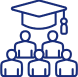
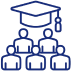
fix: admin_student
add on "register new course"

Changed region(s): [[0.0, 0.0, 1.0, 1.0], [0.7324, 0.6197, 0.7606, 0.6761], [0.7606, 0.8732, 0.7887, 0.9014]]

diff --git a/src/main/java/com/mycompany/projectmanagementsystem/admin_student.java b/src/main/java/com/mycompany/projectmanagementsystem/admin_student.java
@@ -35,6 +35,9 @@ public class admin_student extends javax.swing.JFrame {
         admin_stu_managementi = new javax.swing.JLabel();
         admin_stu_management = new javax.swing.JLabel();
         stumanage_background = new javax.swing.JLabel();
+        admin_studenti1 = new javax.swing.JLabel();
+        admin_reg_student1 = new javax.swing.JLabel();
+        regstu_background1 = new javax.swing.JLabel();
         admin_background = new javax.swing.JLabel();
 
         setDefaultCloseOperation(javax.swing.WindowConstants.EXIT_ON_CLOSE);
@@ -144,14 +147,14 @@ public class admin_student extends javax.swing.JFrame {
 
         getContentPane().add(admin_header, new org.netbeans.lib.awtextra.AbsoluteConstraints(0, 0, -1, -1));
 
-        admin_intakei.setIcon(new javax.swing.ImageIcon(getClass().getResource("/Intake_icon.png"))); // NOI18N
-        getContentPane().add(admin_intakei, new org.netbeans.lib.awtextra.AbsoluteConstraints(90, 110, -1, -1));
+        admin_intakei.setIcon(new javax.swing.ImageIcon(getClass().getResource("/intake_icon.png"))); // NOI18N
+        getContentPane().add(admin_intakei, new org.netbeans.lib.awtextra.AbsoluteConstraints(80, 110, 80, 70));
 
         admin_reg_intake.setBackground(new Color(76, 127, 174, 0));
         admin_reg_intake.setFont(new java.awt.Font("Bell MT", 1, 36)); // NOI18N
         admin_reg_intake.setForeground(new java.awt.Color(2, 50, 99));
         admin_reg_intake.setHorizontalAlignment(javax.swing.SwingConstants.CENTER);
-        admin_reg_intake.setText("Register New Intake");
+        admin_reg_intake.setText("<html><div style = \"text-align: center; width: 70px;\">Register New Intake</div></html>");
         admin_reg_intake.setBorder(new LineBorder(new Color(192, 192, 192, 90), 15, true));
         admin_reg_intake.setMaximumSize(new java.awt.Dimension(380, 240));
         admin_reg_intake.setMinimumSize(new java.awt.Dimension(380, 240));
@@ -162,21 +165,21 @@ public class admin_student extends javax.swing.JFrame {
                 admin_reg_intakeMouseClicked(evt);
             }
         });
-        getContentPane().add(admin_reg_intake, new org.netbeans.lib.awtextra.AbsoluteConstraints(80, 100, -1, -1));
+        getContentPane().add(admin_reg_intake, new org.netbeans.lib.awtextra.AbsoluteConstraints(80, 110, 260, 260));
 
         intake_background.setBackground(new Color(192, 192, 192, 90));
         intake_background.setOpaque(true);
-        getContentPane().add(intake_background, new org.netbeans.lib.awtextra.AbsoluteConstraints(90, 110, 360, 220));
+        getContentPane().add(intake_background, new org.netbeans.lib.awtextra.AbsoluteConstraints(90, 120, 240, 240));
         intake_background.getAccessibleContext().setAccessibleName("intake_background");
 
-        admin_studenti.setIcon(new javax.swing.ImageIcon(getClass().getResource("/Student_icon.png"))); // NOI18N
-        getContentPane().add(admin_studenti, new org.netbeans.lib.awtextra.AbsoluteConstraints(100, 380, -1, -1));
+        admin_studenti.setIcon(new javax.swing.ImageIcon(getClass().getResource("/student_icon.png"))); // NOI18N
+        getContentPane().add(admin_studenti, new org.netbeans.lib.awtextra.AbsoluteConstraints(380, 110, 70, 80));
 
         admin_reg_student.setBackground(new Color(192, 192, 192, 90));
         admin_reg_student.setFont(new java.awt.Font("Bell MT", 1, 36)); // NOI18N
         admin_reg_student.setForeground(new java.awt.Color(2, 50, 99));
         admin_reg_student.setHorizontalAlignment(javax.swing.SwingConstants.CENTER);
-        admin_reg_student.setText("Register New Student");
+        admin_reg_student.setText("<html><div style = \"text-align: center; width: 70px;\">Register New Student</div></html>");
         admin_reg_student.setBorder(new LineBorder(new Color(192, 192, 192, 90), 15, true));
         admin_reg_student.setMaximumSize(new java.awt.Dimension(380, 240));
         admin_reg_student.setMinimumSize(new java.awt.Dimension(380, 240));
@@ -187,14 +190,14 @@ public class admin_student extends javax.swing.JFrame {
                 admin_reg_studentMouseClicked(evt);
             }
         });
-        getContentPane().add(admin_reg_student, new org.netbeans.lib.awtextra.AbsoluteConstraints(80, 370, -1, -1));
+        getContentPane().add(admin_reg_student, new org.netbeans.lib.awtextra.AbsoluteConstraints(380, 110, 260, 260));
 
         regstu_background.setBackground(new Color(192, 192, 192, 90));
         regstu_background.setOpaque(true);
-        getContentPane().add(regstu_background, new org.netbeans.lib.awtextra.AbsoluteConstraints(90, 380, 360, 220));
+        getContentPane().add(regstu_background, new org.netbeans.lib.awtextra.AbsoluteConstraints(390, 120, 240, 240));
 
         admin_eci.setIcon(new javax.swing.ImageIcon(getClass().getResource("/EC_icon.png"))); // NOI18N
-        getContentPane().add(admin_eci, new org.netbeans.lib.awtextra.AbsoluteConstraints(560, 110, -1, -1));
+        getContentPane().add(admin_eci, new org.netbeans.lib.awtextra.AbsoluteConstraints(100, 420, -1, -1));
 
         admin_ec_management.setBackground(new Color(192, 192, 192, 90));
         admin_ec_management.setFont(new java.awt.Font("Bell MT", 1, 36)); // NOI18N
@@ -211,15 +214,15 @@ public class admin_student extends javax.swing.JFrame {
                 admin_ec_managementMouseClicked(evt);
             }
         });
-        getContentPane().add(admin_ec_management, new org.netbeans.lib.awtextra.AbsoluteConstraints(540, 100, -1, -1));
+        getContentPane().add(admin_ec_management, new org.netbeans.lib.awtextra.AbsoluteConstraints(80, 410, -1, -1));
 
         ecmanage_background.setBackground(new Color(192, 192, 192, 90));
         ecmanage_background.setOpaque(true);
-        getContentPane().add(ecmanage_background, new org.netbeans.lib.awtextra.AbsoluteConstraints(550, 110, 360, 220));
+        getContentPane().add(ecmanage_background, new org.netbeans.lib.awtextra.AbsoluteConstraints(90, 420, 360, 220));
         ecmanage_background.getAccessibleContext().setAccessibleName("ecmanage_background");
 
         admin_stu_managementi.setIcon(new javax.swing.ImageIcon(getClass().getResource("/Setting_icon.png"))); // NOI18N
-        getContentPane().add(admin_stu_managementi, new org.netbeans.lib.awtextra.AbsoluteConstraints(560, 380, -1, -1));
+        getContentPane().add(admin_stu_managementi, new org.netbeans.lib.awtextra.AbsoluteConstraints(570, 420, -1, -1));
         admin_stu_managementi.getAccessibleContext().setAccessibleDescription("");
 
         admin_stu_management.setBackground(new Color(192, 192, 192, 90));
@@ -237,11 +240,35 @@ public class admin_student extends javax.swing.JFrame {
                 admin_stu_managementMouseClicked(evt);
             }
         });
-        getContentPane().add(admin_stu_management, new org.netbeans.lib.awtextra.AbsoluteConstraints(540, 370, -1, -1));
+        getContentPane().add(admin_stu_management, new org.netbeans.lib.awtextra.AbsoluteConstraints(550, 410, -1, -1));
 
         stumanage_background.setBackground(new Color(192, 192, 192, 90));
         stumanage_background.setOpaque(true);
-        getContentPane().add(stumanage_background, new org.netbeans.lib.awtextra.AbsoluteConstraints(550, 380, 360, 220));
+        getContentPane().add(stumanage_background, new org.netbeans.lib.awtextra.AbsoluteConstraints(560, 420, 360, 220));
+
+        admin_studenti1.setIcon(new javax.swing.ImageIcon(getClass().getResource("/student_course_icon.png"))); // NOI18N
+        getContentPane().add(admin_studenti1, new org.netbeans.lib.awtextra.AbsoluteConstraints(670, 110, 70, 70));
+
+        admin_reg_student1.setBackground(new Color(192, 192, 192, 90));
+        admin_reg_student1.setFont(new java.awt.Font("Bell MT", 1, 36)); // NOI18N
+        admin_reg_student1.setForeground(new java.awt.Color(2, 50, 99));
+        admin_reg_student1.setHorizontalAlignment(javax.swing.SwingConstants.CENTER);
+        admin_reg_student1.setText("<html><div style = \"text-align: center; width: 70px;\">Register New Course</div></html>");
+        admin_reg_student1.setBorder(new LineBorder(new Color(192, 192, 192, 90), 15, true));
+        admin_reg_student1.setMaximumSize(new java.awt.Dimension(380, 240));
+        admin_reg_student1.setMinimumSize(new java.awt.Dimension(380, 240));
+        admin_reg_student1.setOpaque(true);
+        admin_reg_student1.setPreferredSize(new java.awt.Dimension(380, 240));
+        admin_reg_student1.addMouseListener(new java.awt.event.MouseAdapter() {
+            public void mouseClicked(java.awt.event.MouseEvent evt) {
+                admin_reg_student1MouseClicked(evt);
+            }
+        });
+        getContentPane().add(admin_reg_student1, new org.netbeans.lib.awtextra.AbsoluteConstraints(670, 110, 260, 260));
+
+        regstu_background1.setBackground(new Color(192, 192, 192, 90));
+        regstu_background1.setOpaque(true);
+        getContentPane().add(regstu_background1, new org.netbeans.lib.awtextra.AbsoluteConstraints(680, 120, 240, 240));
 
         admin_background.setBackground(new java.awt.Color(76, 127, 174));
         admin_background.setIcon(new javax.swing.ImageIcon(getClass().getResource("/main_background.png"))); // NOI18N
@@ -291,6 +318,10 @@ public class admin_student extends javax.swing.JFrame {
         dispose();
     }//GEN-LAST:event_admin_logoMouseClicked
 
+    private void admin_reg_student1MouseClicked(java.awt.event.MouseEvent evt) {//GEN-FIRST:event_admin_reg_student1MouseClicked
+        // TODO add your handling code here:
+    }//GEN-LAST:event_admin_reg_student1MouseClicked
+
     
     public static void main(String args[]) {
 
@@ -314,14 +345,17 @@ public class admin_student extends javax.swing.JFrame {
     private javax.swing.JLabel admin_profile;
     private javax.swing.JLabel admin_reg_intake;
     private javax.swing.JLabel admin_reg_student;
+    private javax.swing.JLabel admin_reg_student1;
     private javax.swing.JLabel admin_report;
     private javax.swing.JLabel admin_stu_management;
     private javax.swing.JLabel admin_stu_managementi;
     private javax.swing.JLabel admin_student;
     private javax.swing.JLabel admin_studenti;
+    private javax.swing.JLabel admin_studenti1;
     private javax.swing.JLabel ecmanage_background;
     private javax.swing.JLabel intake_background;
     private javax.swing.JLabel regstu_background;
+    private javax.swing.JLabel regstu_background1;
     private javax.swing.JLabel stumanage_background;
     // End of variables declaration//GEN-END:variables
 }
